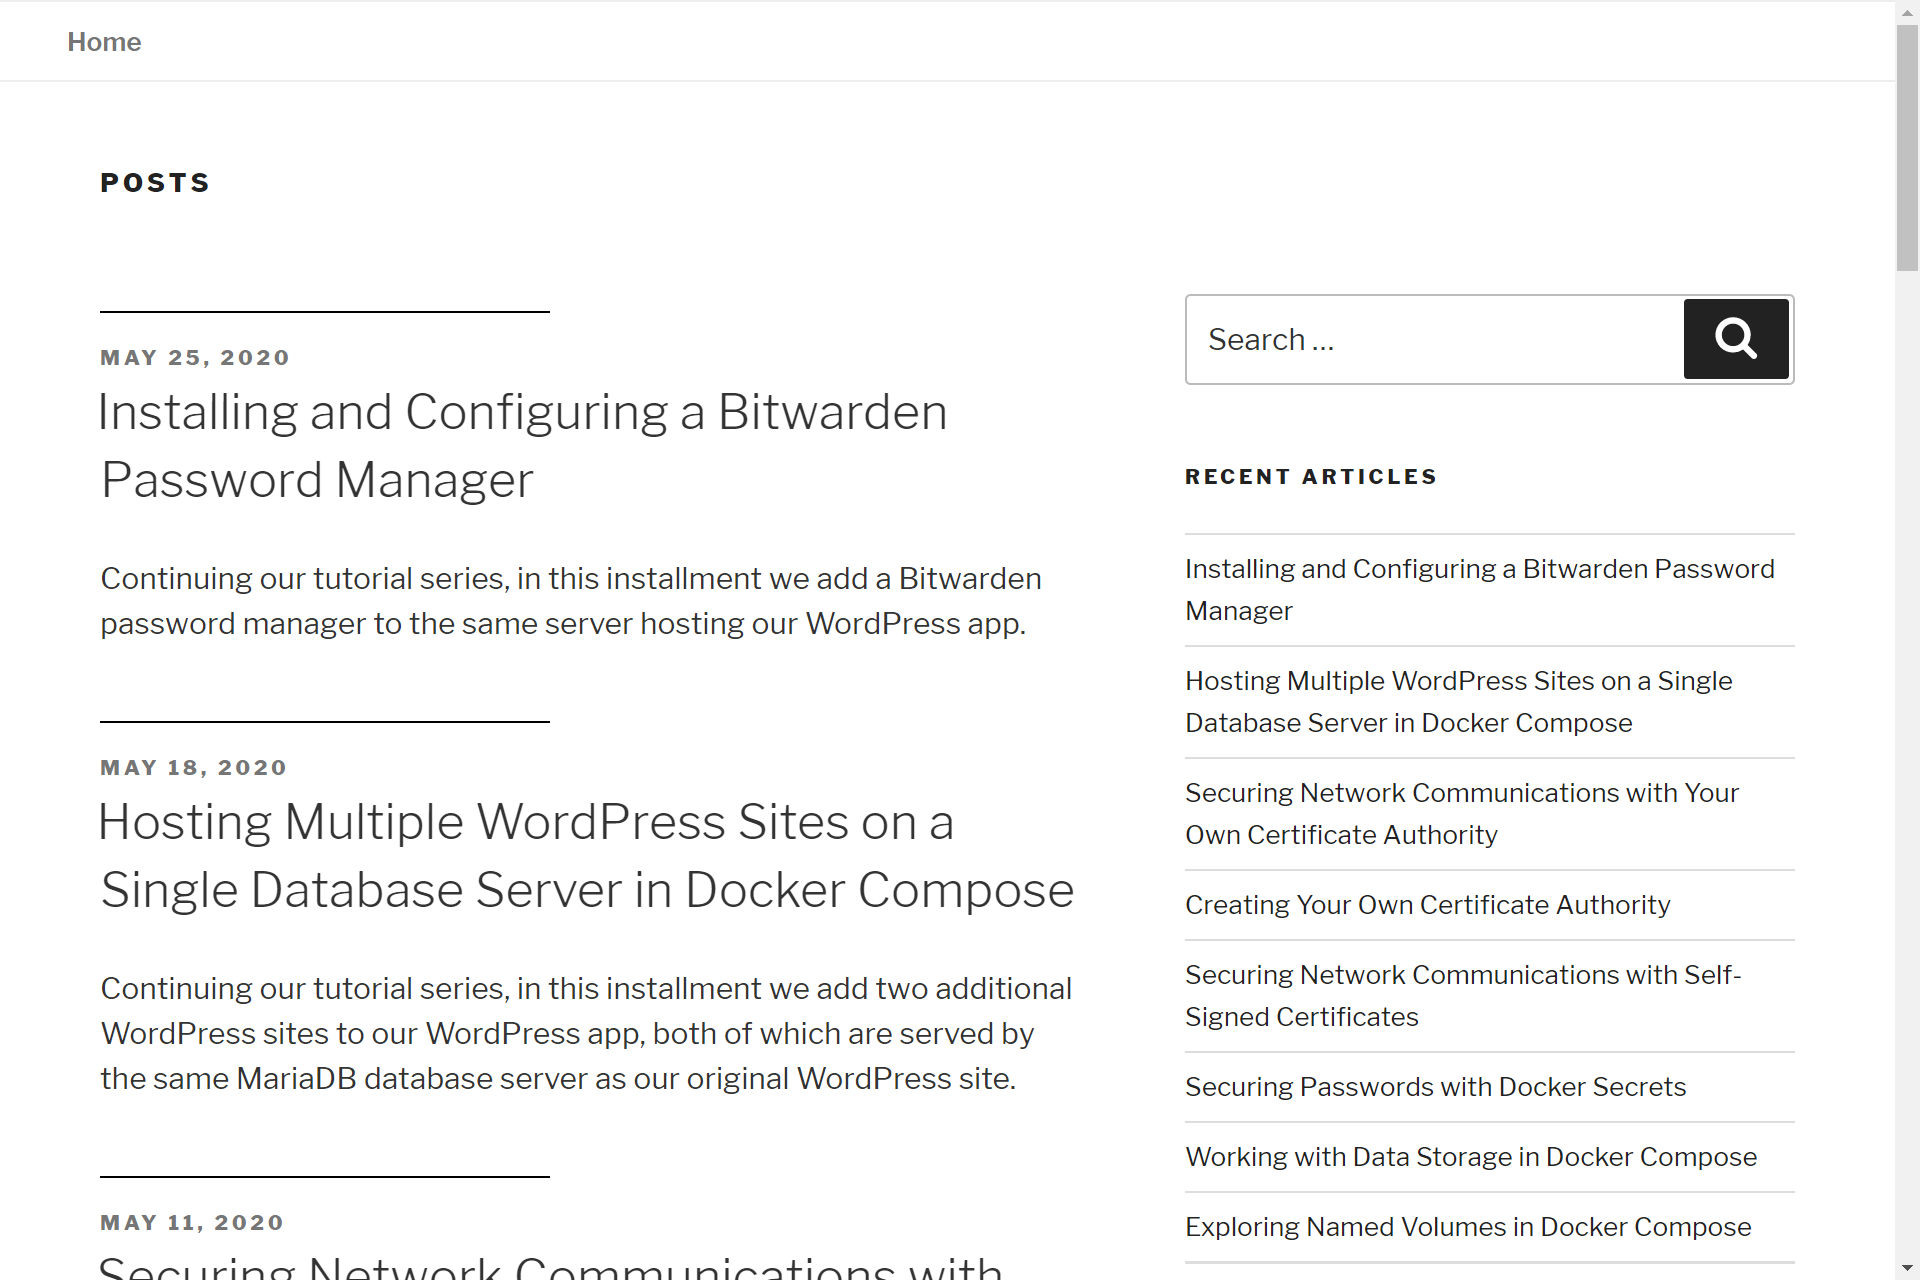
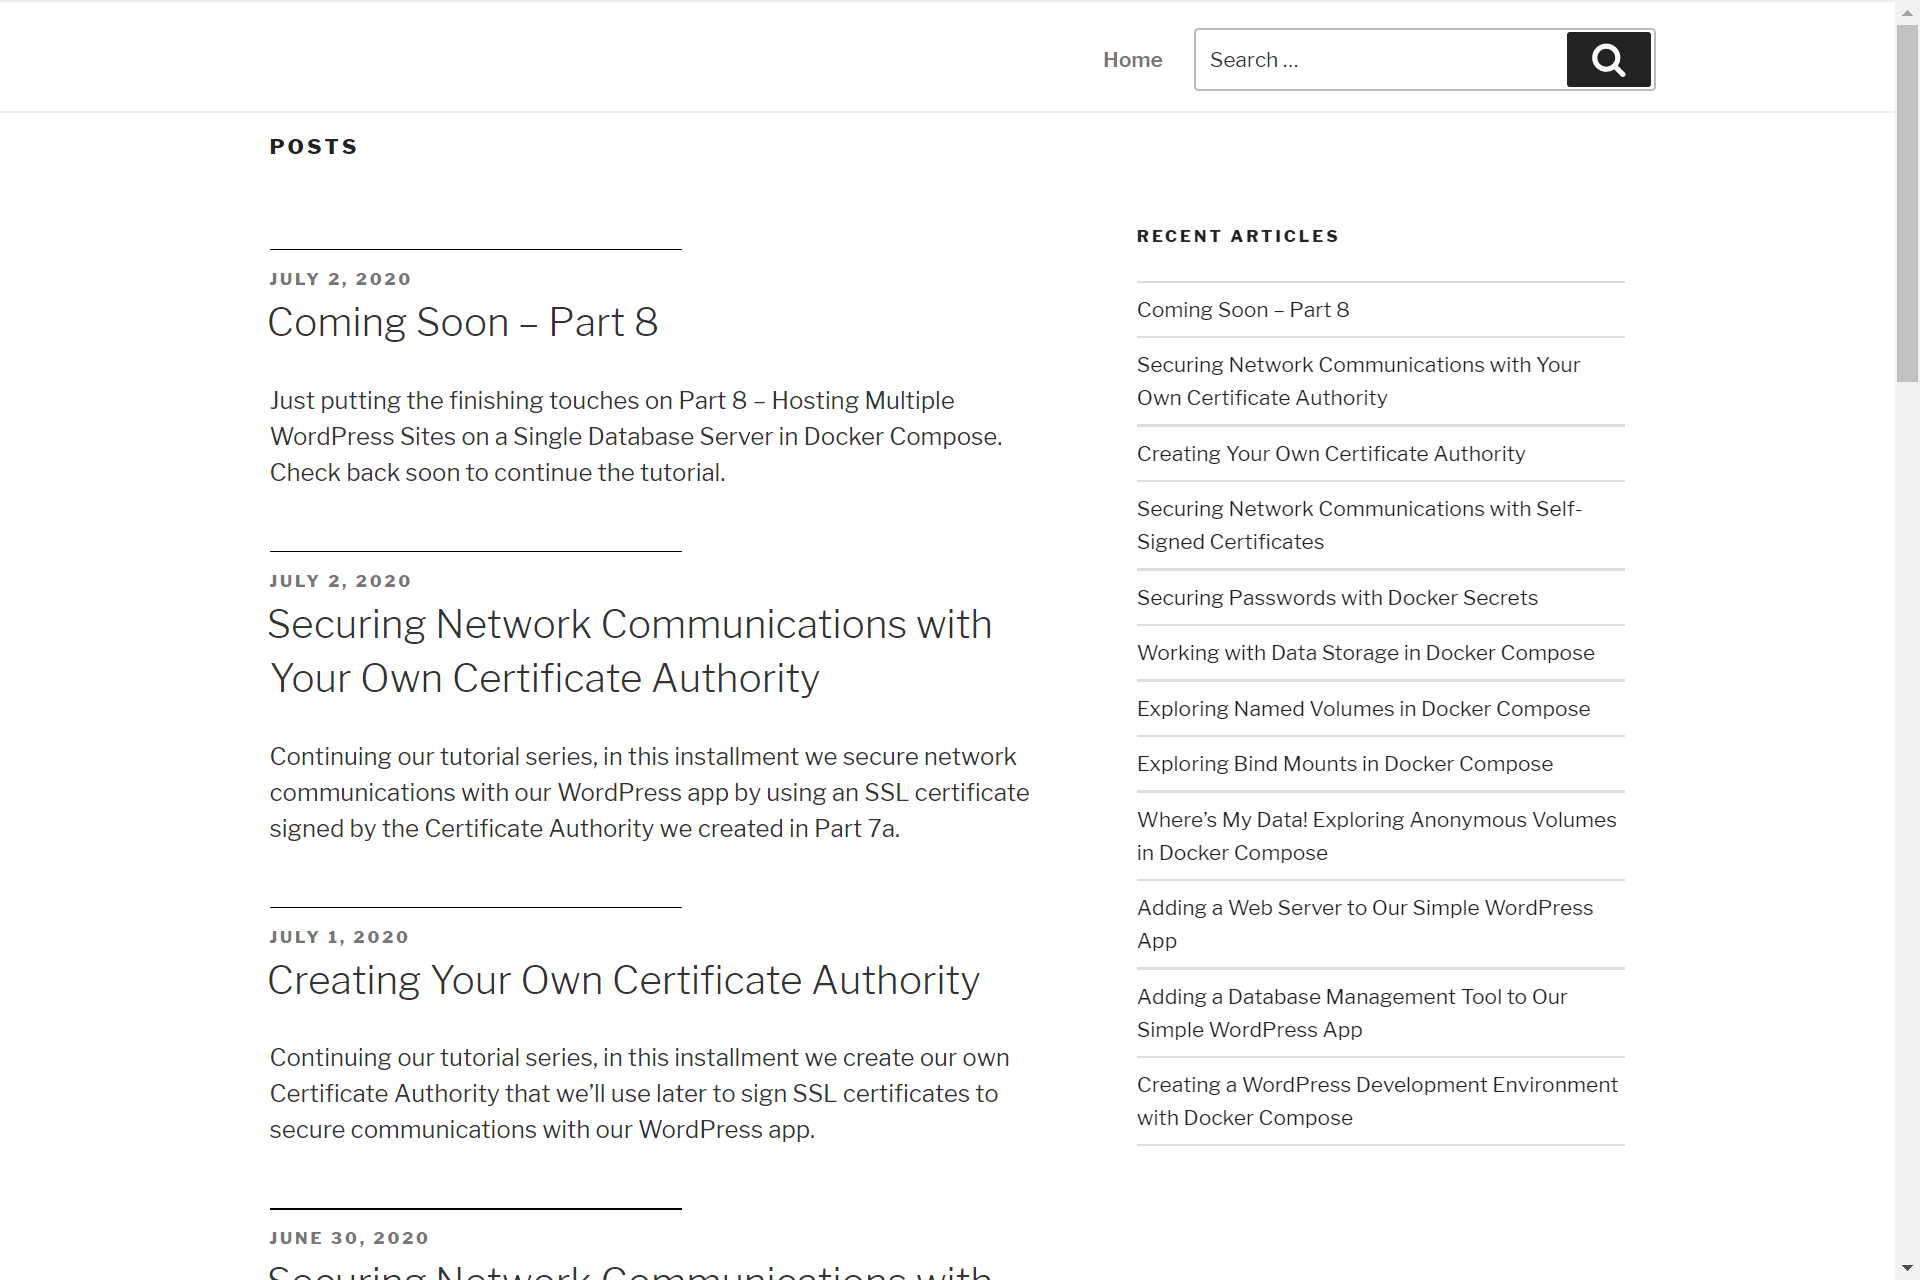
Removed hard-coded links/refs; updated screenshot

diff --git a/style.css b/style.css
@@ -17,8 +17,27 @@ Version:    1.0.0
   - code block label formatting
   - add copyright styling similar to site-info class but without hover styling
   
+functions.php
+   - enqueues style sheets
+   - adds search form to menu bar
+   - replaces WordPress.org logo on login page with /login/logo.png
+   - replaces WordPress.org url on login page with home url
+   - changed login header text on logo to 'Powered by <site_name>'
+   - removes website field from comment form
+   - changes comment form cookie comment (*** consider making a changable option ***)
+   - filters html in comments
+
 header.php:
   - removed header image template
+
+searchform.php
+	- removed 'Search' text from search button
+
+single.php
+	- added google-recaptcha script enqueue
+	- added content-full-width class to primary division
+	- moved comment section below post navigation
+	- removed sidebar <?php get_sidebar(); ?>
 
 tempate-parts/post/content.php:
   - excluded byline on single post header 
@@ -27,10 +46,12 @@ tempate-parts/post/content.php:
 
 tempate-parts/footer/site-info.php:
   - removed WordPress branding
+	- added 'Terms and Contitions' and 'Contact' with links after privacy policy
+	- added copyright notice to right of footer
 
 */
 
-/* search format for menu bar */
+/* search box format for menu bar */
 .navigation-top {
   top: 0;
 }
@@ -72,7 +93,7 @@ aside {
   width: 100% !important;
 }
 
-/* indent series list so bullets are inside left margin */
+/* indent post list so bullets are inside left margin */
 .post ul {
   padding-left: 2em;
 }

diff --git a/template-parts/footer/site-info.php b/template-parts/footer/site-info.php
@@ -18,24 +18,63 @@
 			?>
 	</a>
 		
+	- added 'Terms and Contitions' and 'Contact' with links after privacy policy
+		- link will be added, along with separator if appropriate, if page exists and is published
+		- these page names are currently hard coded *** consider changing to options ***
+	- added copyright notice to right of footer in form
+		Copyright © <base year>-<current-year> <site_name>
+		- if base year is equal to current year then only base year is shown
+		- base year hard coded to 2020 *** consider making an option ***
 */
 
 ?>
 <div class="site-info">
 	<?php
-	if ( function_exists( 'the_privacy_policy_link' ) ) {
-		the_privacy_policy_link( '', '<span role="separator" aria-hidden="true"></span>' );
-	}
+	$tc_page_published = false;
+	$cu_page_published = false;
 
 	$tc_page = get_page_by_title( 'Terms and Conditions' );
-	$tc_url = get_permalink($tc_page->ID);
-	$cu_page = get_page_by_title( 'Contact' );
-	$cu_url = get_permalink($cu_page->ID);
+	if( !is_null( $tc_page ) && $tc_page->post_status == 'publish' ) { 
+		$tc_page_published = true;
+	}
 
+	$cu_page = get_page_by_title( 'Contact' );
+	if( !is_null( $cu_page ) && $cu_page->post_status == 'publish' ) { 
+		$cu_page_published = true;
+	}
+
+	if ( function_exists( 'the_privacy_policy_link' ) ) {
+		if( $tc_page_published || $cu_page_published ) {
+			the_privacy_policy_link( '', '<span role="separator" aria-hidden="true"></span>' );
+		}
+		else {
+			the_privacy_policy_link( '', '' );
+		}
+	}
+
+	if( $tc_page_published ) { 
+		$tc_url = get_permalink($tc_page->ID); 
+		if( $cu_page_published ) { ?>
+			<a href=" <?php echo esc_url( $tc_url ); ?> ">Terms and Conditions<span role="separator" aria-hidden="true"></span></a>
+<?php   }
+		else { ?>
+			<a href=" <?php echo esc_url( $tc_url ); ?> ">Terms and Conditions</a>
+<?php   }
+	}
+
+	if( $cu_page_published ) { 
+		$cu_url = get_permalink($cu_page->ID); ?>
+		<a href=" <?php echo esc_url( $cu_url ); ?> ">Contact Us</a>
+<?php
+	}
+
+	$cpyear = "2020";
+	if( date("Y") > $cpyear) {
+		$cpyear .= "-" . date("Y");
+	}
 	?>
-	<a href=" <?php echo esc_url( $tc_url ); ?> ">Terms and Conditions<span role="separator" aria-hidden="true"></span></a>
-	<a href=" <?php echo esc_url( $cu_url ); ?> ">Contact Us</a>
+
 </div><!-- .site-info -->
 <div class="copyright">
-	<a>Copyright &copy; 2020 TRobertson</a>
+	<a>Copyright &copy; <?php echo $cpyear . " " . get_bloginfo(); ?></a>
 </div><!-- .copyright -->

diff --git a/functions.php b/functions.php
@@ -1,4 +1,18 @@
 <?php
+
+/*
+Child theme modifications:
+   - enqueues style sheets
+   - adds search form to menu bar
+   - replaces WordPress.org logo on login page with /login/logo.png
+   - replaces WordPress.org url on login page with home url
+   - changed login header text on logo to 'Powered by <site_name>'
+   - removes website field from comment form
+   - changes comment form cookie comment (*** consider making a changable option ***)
+   - filters html in comments
+*/
+
+// enqueue style sheets
 add_action( 'wp_enqueue_scripts', 'child_theme_enqueue_styles' );
 function child_theme_enqueue_styles() {
     // don't need to enqueue child style because parent uses get_stylesheet_uri()
@@ -15,6 +29,7 @@ function child_theme_enqueue_styles() {
     wp_enqueue_style( 'parent-style', get_template_directory_uri() . '/style.css' );
 }
 
+// add search form to menu bar
 add_filter( 'wp_nav_menu_items', 'add_extra_item_to_nav_menu', 10, 2 );
 function add_extra_item_to_nav_menu( $items, $args ) {
     if ($args->theme_location == 'top') {
@@ -24,6 +39,7 @@ function add_extra_item_to_nav_menu( $items, $args ) {
     return $items;
 }
 
+// replace WordPress.org logo on login page with /login/logo.png
 function modify_login_logo() {
     $logo_style = '<style type="text/css">';
     $logo_style .= '#login h1 a {background-image: url(' . get_stylesheet_directory_uri() . '/login/logo.png) !important;}';
@@ -33,14 +49,19 @@ function modify_login_logo() {
 //add_action('login_head', 'modify_login_logo');
 add_action('login_enqueue_scripts', 'modify_login_logo');
 
+// replace WordPress.org url on login page with home url
 function custom_login_url() {
     return home_url();
 }
 add_filter('login_headerurl', 'custom_login_url');
 
-// changing the alt text on the logo to show your site name
-function mb_login_title() { return "Powered by TRobertson"; }
-add_filter( 'login_headertext', 'mb_login_title' );
+// change login header text on logo to 'Powered by <site name>'
+function custom_login_header_text( $headertext ) {
+    "Powered by TRobertson";
+    $headertext = esc_html__( 'Powered by ' . get_bloginfo(), 'plugin-textdomain' );
+    return $headertext;
+}
+add_filter( 'login_headertext', 'custom_login_header_text' );
 
 // remove website field from comment form
 function wpb_disable_comment_url($fields) { 

diff --git a/header.php b/header.php
@@ -14,11 +14,10 @@
 
 /*
  Child theme modifications:
-	- removed header image template
+	- removed header image template at line 39, which removes header image and site branding
 
 			<?php get_template_part( 'template-parts/header/header', 'image' ); ?>
 	
-	at line 39, which removes header image and site branding
 */
 
 ?><!DOCTYPE html>
@@ -34,6 +33,7 @@
 <body <?php body_class(); ?>>
 <?php wp_body_open(); ?>
 <div id="page" class="site">
+	<a class="skip-link screen-reader-text" href="#content"><?php _e( 'Skip to content', 'twentyseventeen' ); ?></a>
 
 	<header id="masthead" class="site-header" role="banner">
 

diff --git a/single.php b/single.php
@@ -12,13 +12,17 @@
 
  /*
  Child theme modifications:
+	- added google-recaptcha script enqueue
 	- added content-full-width class to primary division
+	- moved comment section below post navigation
+	- removed sidebar <?php get_sidebar(); ?>
 */
 
 // from: https://www.oueta.com/wordpress/add-google-recaptcha-to-wordpress-comments-without-plugin/
 // register w/ Google at https://www.google.com/recaptcha/admin#list
 // add site and secret keys in functions.php
 wp_enqueue_script('google-recaptcha', 'https://www.google.com/recaptcha/api.js');
+
 get_header(); ?>
 
 <div class="wrap">

diff --git a/searchform.php b/searchform.php
@@ -8,6 +8,11 @@
  * @version 1.0
  */
 
+ /*
+ Child theme modifications:
+	- removed 'Search' text from search button
+*/
+
 ?>
 
 <?php $unique_id = esc_attr( twentyseventeen_unique_id( 'search-form-' ) ); ?>
